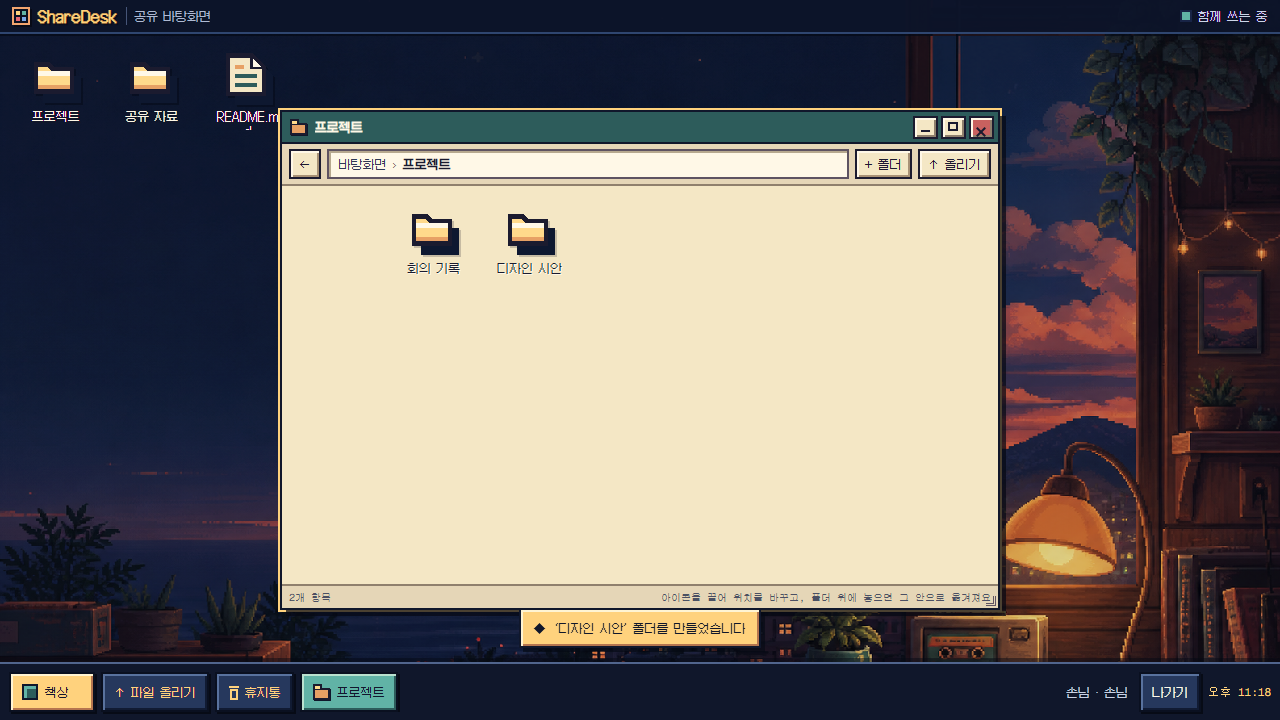
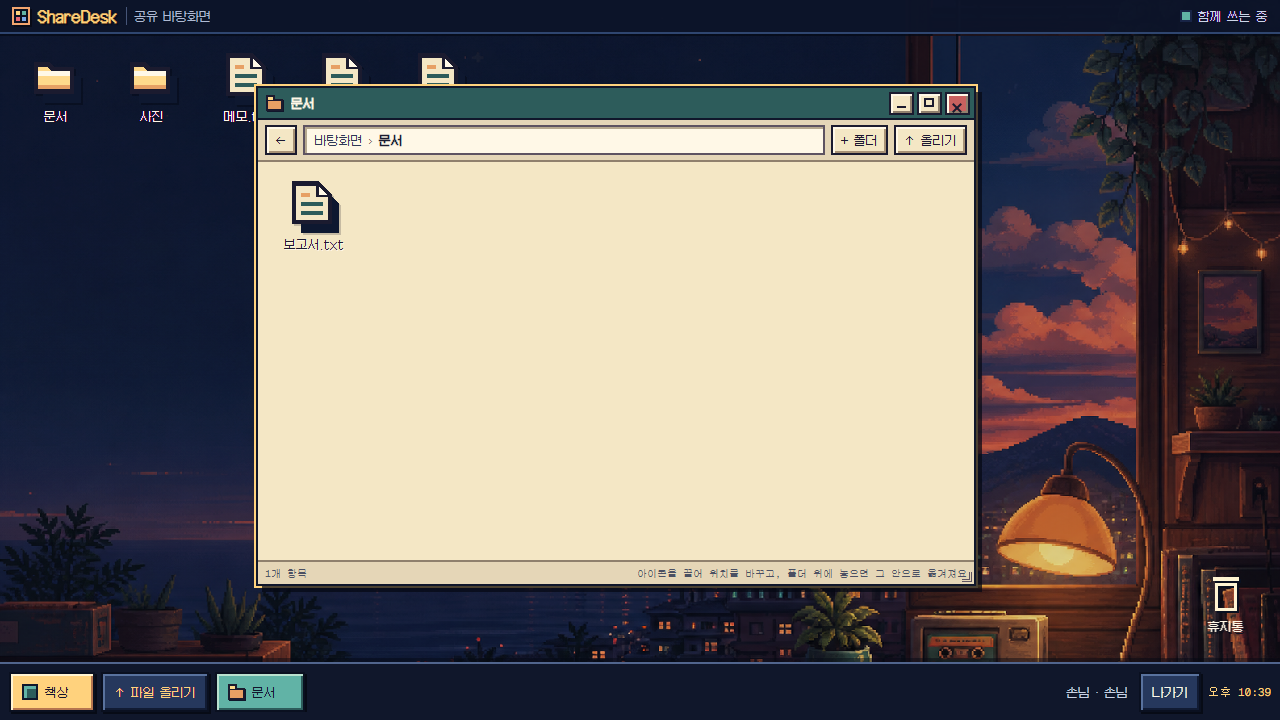
fix: pin trash to desktop corner

diff --git a/src/app/files/desktop.module.css b/src/app/files/desktop.module.css
@@ -847,6 +847,59 @@
   box-shadow: 0 -4px 0 rgb(5 9 20 / 46%);
 }
 
+.trashLauncher {
+  position: fixed;
+  right: max(18px, env(safe-area-inset-right));
+  bottom: 76px;
+  z-index: 10;
+  display: flex;
+  width: 72px;
+  min-height: 76px;
+  flex-direction: column;
+  align-items: center;
+  justify-content: center;
+  gap: 6px;
+  padding: 6px 4px;
+  color: #fff8e7;
+  background: transparent;
+  border: 2px solid transparent;
+  cursor: pointer;
+  line-height: 1;
+  text-shadow: 2px 2px 0 #0a1020;
+}
+
+.trashLauncher:hover,
+.trashLauncher:focus-visible {
+  background: rgb(47 70 112 / 78%);
+  border-color: var(--amber);
+  box-shadow: inset 2px 2px 0 rgb(255 244 210 / 24%), 3px 3px 0 rgb(5 9 20 / 62%);
+}
+
+.trashLauncher:active {
+  transform: translate(2px, 2px);
+  box-shadow: inset 2px 2px 0 rgb(5 9 20 / 62%);
+}
+
+.trashLauncherGlyph {
+  width: 30px;
+  height: 34px;
+  color: var(--cream);
+  filter: drop-shadow(2px 2px 0 #0a1020);
+}
+
+.trashLauncherGlyph::before {
+  left: 2px;
+  right: 2px;
+  height: 4px;
+}
+
+.trashLauncherGlyph::after {
+  top: 6px;
+  left: 4px;
+  right: 4px;
+  border-width: 3px;
+}
+
 .deskButton,
 .quickAction,
 .taskButton,
@@ -1124,7 +1177,7 @@
 
 .selectionHint {
   position: fixed;
-  right: 10px;
+  right: 100px;
   bottom: 66px;
   z-index: 900;
   max-width: 300px;
@@ -1161,7 +1214,14 @@
   .trayLink { height: 46px; padding-inline: 6px; font-size: 11px; }
   .taskButton { min-width: 52px; width: 52px; height: 46px; padding: 0; justify-content: center; }
   .taskTitle { display: none; }
-  .uploadChip { position: fixed; right: 8px; bottom: 74px; max-width: calc(100% - 16px); }
+  .trashLauncher { right: max(8px, env(safe-area-inset-right)); bottom: 76px; width: 64px; min-height: 68px; }
+  .trashLauncherGlyph { width: 26px; height: 30px; }
+  .uploadChip {
+    position: fixed;
+    right: calc(max(8px, env(safe-area-inset-right)) + 72px);
+    bottom: 74px;
+    max-width: calc(100% - max(88px, env(safe-area-inset-right) + 80px));
+  }
   .iconMore { display: flex; width: 30px; height: 30px; }
   .iconMain { touch-action: manipulation; }
   .folderWindow,

diff --git a/tests/files-move-ui.test.ts b/tests/files-move-ui.test.ts
@@ -157,3 +157,35 @@ test("레이아웃 저장은 폴더 식별값을 보내고 닫힌 창의 이전 
     /if \(!isActiveSave\(key, node\) \|\| isAbortError\(error\)\) return;/,
   );
 });
+
+test("휴지통은 작업 표시줄이 아닌 화면 우측 하단 고정 아이콘으로 연다", async () => {
+  const [source, css, readme] = await Promise.all([
+    readFile(new URL("../src/app/files/FilesView.tsx", import.meta.url), "utf8"),
+    readFile(new URL("../src/app/files/desktop.module.css", import.meta.url), "utf8"),
+    readFile(new URL("../README.md", import.meta.url), "utf8"),
+  ]);
+
+  const launcherIndex = source.indexOf("className={styles.trashLauncher}");
+  const taskbarStart = source.indexOf('<footer className={styles.taskBar}>');
+  const taskbarEnd = source.indexOf("</footer>", taskbarStart);
+  const launcherStyleStart = css.indexOf(".trashLauncher {");
+  const launcherStyleEnd = css.indexOf("}", launcherStyleStart);
+  const launcherStyle = css.slice(launcherStyleStart, launcherStyleEnd + 1);
+
+  assert.ok(launcherIndex >= 0 && launcherIndex < taskbarStart);
+  assert.doesNotMatch(source.slice(taskbarStart, taskbarEnd), /onClick=\{openTrash\}/);
+  assert.match(source, /aria-label="휴지통 열기"/);
+  assert.match(launcherStyle, /position: fixed;/);
+  assert.match(launcherStyle, /right: max\(18px, env\(safe-area-inset-right\)\);/);
+  assert.match(launcherStyle, /bottom: 76px;/);
+  assert.match(launcherStyle, /z-index: 10;/);
+  assert.match(
+    css,
+    /\.trashLauncher \{ right: max\(8px, env\(safe-area-inset-right\)\);/,
+  );
+  assert.match(
+    css,
+    /right: calc\(max\(8px, env\(safe-area-inset-right\)\) \+ 72px\);/,
+  );
+  assert.match(readme, /화면 우측 하단의 고정 휴지통 아이콘/);
+});

diff --git a/src/app/files/FilesView.tsx b/src/app/files/FilesView.tsx
@@ -3183,6 +3183,19 @@ export default function FilesView({
         }}
       />
 
+      <button
+        type="button"
+        className={styles.trashLauncher}
+        aria-label="휴지통 열기"
+        onClick={openTrash}
+      >
+        <span
+          className={`${styles.trashGlyph} ${styles.trashLauncherGlyph}`}
+          aria-hidden="true"
+        />
+        <span>휴지통</span>
+      </button>
+
       <footer className={styles.taskBar}>
         <button
           ref={deskButtonRef}
@@ -3207,13 +3220,6 @@ export default function FilesView({
           onClick={() => requestUpload(ROOT_SCOPE)}
         >
           ↑ 파일 올리기
-        </button>
-        <button
-          type="button"
-          className={styles.quickAction}
-          onClick={openTrash}
-        >
-          <span className={styles.trashGlyph} aria-hidden="true" /> 휴지통
         </button>
         <div className={styles.windowTasks} aria-label="열린 폴더">
           {deskWindows.map((item) => (

diff --git a/README.md b/README.md
@@ -35,7 +35,7 @@ Vercel로 내 저장소와 첫 배포를 한 번에 만들 수 있습니다.
 - 폴더는 이동·크기 조절·최소화를 지원하는 창으로 열립니다.
 - 파일 업로드, 다운로드, 이름 변경, 새 폴더 만들기, 폴더 간 이동을 지원합니다.
 - 사진, 동영상, 오디오, PDF, 텍스트 파일을 바로 미리 봅니다. Google 문서·시트·슬라이드·드로잉은 PDF로 변환해 보여 줍니다.
-- 휴지통은 삭제한 항목의 복원과 완전 삭제를 모두 지원합니다. 휴지통 보관 기간은 30일입니다.
+- 화면 우측 하단의 고정 휴지통 아이콘을 누르면 삭제한 항목을 복원하거나 완전히 삭제할 수 있습니다. 휴지통 보관 기간은 30일입니다.
 - ShareDesk에는 관리자용 Google Drive 공유 기능도 있습니다. 승인 사용자에게 파일이나 폴더를 공유하면서 보기·편집 권한을 정합니다.
 - 초대 코드는 호스트가 유효 기간과 사용 방식을 정해 만들고 전달합니다. 1회용은 한 명이 가입에 성공하면 바로 끝납니다. 기간 내 무제한은 만료되거나 호스트가 비활성화할 때까지 여러 명이 같은 코드로 가입합니다. 관리 화면에는 사용자 차단, 특정 기기 로그인 끊기, 모든 로그인 끊기 기능이 있습니다.
 - 해 질 녘, 깊은 밤, 새벽, 밤바다 배경을 제공합니다. 배경 선택은 개인 브라우저에만 저장됩니다.
